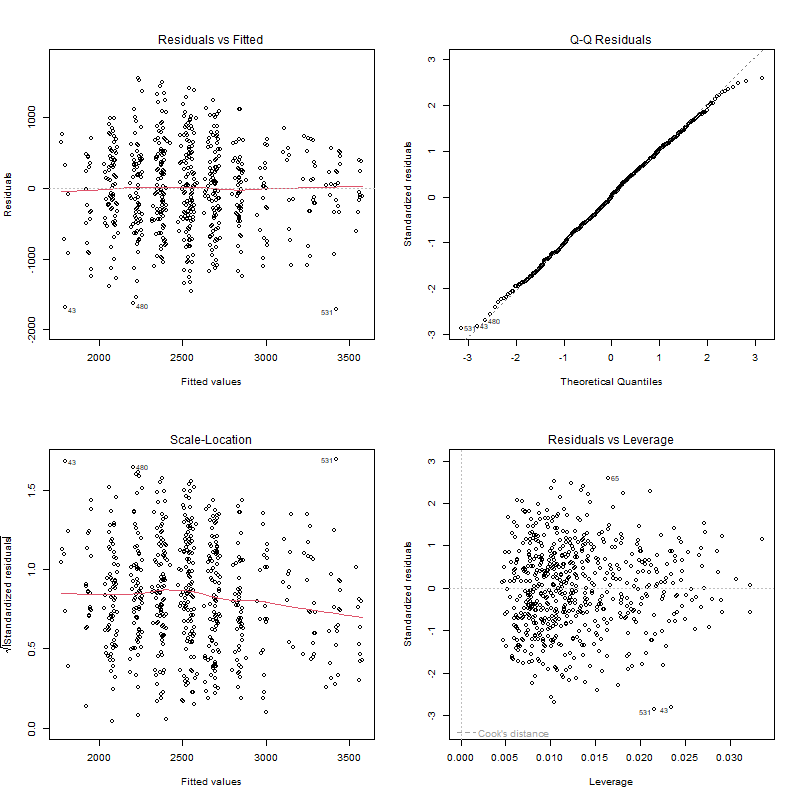
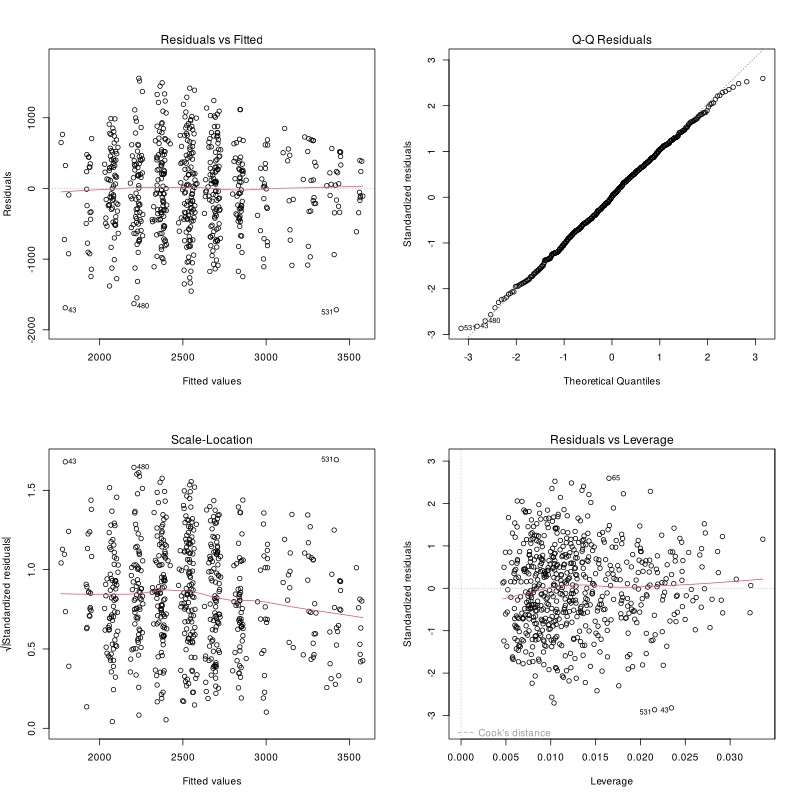
Move Vish's week 2 linear model into 02_linear_model.R (edit only)
Vish's analysis copied from his original file (kept unchanged in code/drafts/)
with setup fixes so it runs: data loader added, personal setwd() removed,
his write.csv lines switched on. His hand-annotated coefficient table kept as
lm1_coefficients_annotated.csv. Old starter kept in code/drafts/.

Claude-Session: https://claude.ai/code/session_01LizRtYMTc3QrX5agChJcEu

diff --git a/notes/who-did-what.md b/notes/who-did-what.md
@@ -13,7 +13,7 @@ Members: Yousuf, Liha, Vish, Liri, Zack
 | 12/10/2026 | Zack | Set up GitHub repo, folder structure, RStudio project and shared data loader; drafted variable classification | `README.md`, `.gitignore`, `MTH6134-project.Rproj`, `code/00_load_data.R`, `notes/` |
 | 12/10/2026 | Yousuf | Players dataset exploration: summary table, distributions, minutes ceiling, injury rates by position / training load / previous injuries / team | `code/01a_explore_players.R`, `outputs/` |
 | 12/10/2026 | Liha | Ashford matches exploration: home vs away, W/D/L record, goals vs opponent rank, count distributions, effect of the 8–0 match | `code/01b_explore_matches.R`, `outputs/` |
-| 12/10/2026 | Vish | Normal linear regression for minutes_played: coefficients, model selection, training_load numeric vs factor, residual plots | `code/02_linear_model.R`, `code/drafts/02_linear_model_draft.R`, `outputs/lm1_residuals.png`, `outputs/lm1_residuals_vs_fitted.png`, `outputs/lm1_coefficients.csv`, `outputs/lm1_drop1_results.csv` |
+| 12/10/2026 | Vish | Normal linear regression for minutes_played: coefficients, model selection, training_load numeric vs factor, residual plots | `code/drafts/02_linear_model_draft.R` (original), now in `code/02_linear_model.R`; `outputs/lm1_*` |
 | 12/10/2026 | Liri | Variable roles table and justification of model family for each candidate response | `code/03a_variable_roles.R`, `notes/decision-notes.md` |
 | 12/10/2026 | Zack | Linear model vs GLM comparison for goals (Poisson) and injury (binomial); summary written to decision notes | `code/03b_lm_vs_glm.R`, `outputs/` |
 | 12/10/2026 | Zack | Workspace upkeep: fixed README and folder structure, recreated `outputs/` and `reports/`, added collaborators, checked scripts run | `README.md`, `outputs/README.md`, `reports/README.md` |
@@ -29,3 +29,4 @@ Members: Yousuf, Liha, Vish, Liri, Zack
 | 15/10/2026 | Zack | Ashford win model (`win ~ home_away + opponent_rank`): odds ratios with 95% CIs, drop1 likelihood ratio tests, grouped observed-vs-fitted check by venue and opponent-rank band; predicted win probability plot with 95% bands; predicted injury probability plot from the final injury model (04b) | `code/04e_ashford_wins_and_predictions.R`, `outputs/win_*`, `outputs/injury_predicted_probabilities.csv`, `outputs/injury_prob_by_prev_injuries.png` |
 | 15/10/2026 | Zack | Workspace upkeep: added `run_all.R` and ran all scripts from a fresh session; updated README (weeks 2–3 ticked, tidyverse note, all scripts listed), project status, and the outputs README (every output listed by script) | `run_all.R`, `README.md`, `notes/project-status.md`, `outputs/README.md` |
 | 15/10/2026 | Zack | Workspace tidy-up: renamed misnamed files to the agreed naming (Vish's draft moved to `code/drafts/`, empty test file deleted, two lm1 outputs renamed), removed a stray non-code line from `04b` so it runs, fixed the `03a` header comment, ran every script from a fresh session and committed the outputs that were missing | `code/drafts/`, `code/03a_variable_roles.R`, `code/04b_injury_model_selection.R`, `outputs/`, `README.md`, `outputs/README.md` |
+| 15/10/2026 | Zack | Edit only, not analysis: moved Vish's week 2 linear model from his original file into `02_linear_model.R` so it runs from the project folder (added the data loader, removed a personal `setwd()` path, switched on his two `write.csv` lines). The analysis and comments are Vish's; his original file is kept unchanged in `code/drafts/` | `code/02_linear_model.R`, `code/drafts/02_linear_model_draft.R`, `code/drafts/02_linear_model_starter.R` |

diff --git a/notes/project-status.md b/notes/project-status.md
@@ -40,7 +40,7 @@ reports/     final group + individual reports (later)
 | `01_explore.R` | 2 | Zack | Kept (original combined exploration, split into 01a/01b) |
 | `01a_explore_players.R` | 2 | Yousuf | Done |
 | `01b_explore_matches.R` | 2 | Liha | Done |
-| `02_linear_model.R` | 2 | Vish | TODOs left (model selection, factor comparison) |
+| `02_linear_model.R` | 2 | Vish | Done except the bmi response (moved into place by Zack, 15/10) |
 | `03a_variable_roles.R` | 3 | Liri | Done |
 | `03b_lm_vs_glm.R` | 3 | Zack | Done |
 | `04a_injury_logistic.R` | 4 | Yousuf | In progress |
@@ -146,7 +146,7 @@ reports/     final group + individual reports (later)
   - Influence of the 8–0 match.
   - Diagnostics on the final injury model.
   - Deviance is not a goodness-of-fit test for 0/1 data.
-  - Vish: his week 2 work (model selection, numeric vs factor training_load, bmi response) is in `code/drafts/02_linear_model_draft.R`, not in `02_linear_model.R`, which is still the starter with TODOs. The draft uses `setwd()` with a personal OneDrive path and `league_players`, so it won't run for anyone else. Move the work into `02_linear_model.R` (as the week 4 email asks).
+  - Vish: his week 2 work has been moved into `02_linear_model.R` (edit by Zack, still Vish's analysis). The bmi response section is still empty. His interpretations in `outputs/lm1_coefficients_annotated.csv` use defenders as the baseline, while the scripts use GK, so the position effects need restating against GK before they go in the report.
   - Liha: add decision-notes and who-did-what entries for `04b`.
 - **Week 6:** Poisson for goals scored/conceded. Plain Poisson looks adequate after adjusting for home_away and opponent_rank.
 - **Week 11:** variation in injury rates between teams suggests a random team effect.

diff --git a/notes/decision-notes.md b/notes/decision-notes.md
@@ -228,3 +228,32 @@ Vish, since it is his work and needs edits to run).
 fresh session and the 25 outputs that existed only locally were committed, so
 `outputs/` now matches `outputs/README.md`.
 
+### 15/10/2026 — `02_linear_model.R`: Vish's work moved into place (edit by Zack)
+**This is an edit, not new analysis. The model, the tests, the comments and
+the conclusions are all Vish's.**
+
+**What:** Vish's week 2 analysis was in his own file (now
+`code/drafts/02_linear_model_draft.R`), while `02_linear_model.R` was still the
+starter template. His code was copied into `02_linear_model.R` with only these
+changes, so it runs from the project folder:
+- added `source("code/00_load_data.R")` and used `players` instead of
+  `league_players`;
+- removed `setwd()` with a personal OneDrive path;
+- un-commented his two `write.csv` lines, saving the drop1 table as
+  `lm1_drop1_results.csv`;
+- added a note that the scripts use GK as the baseline position (his comment
+  says defender), and a TODO for the empty bmi section. Both are marked [Zack].
+
+**Kept, not deleted:** his original file (unchanged) and the old starter, both
+in `code/drafts/`. His hand-edited coefficient table, which includes his written
+interpretation of every term, was renamed `lm1_coefficients_annotated.csv` so
+the script's plain table (`lm1_coefficients.csv`, the name in the week 2
+instructions) doesn't overwrite it.
+
+**Why:** the brief requires everything to run from the folder as submitted, and
+the week 4 email asked for these TODOs to be finished.
+
+**Note for the report:** his annotated table uses defenders as the baseline;
+the scripts use goalkeepers. The fitted model is the same and the numbers agree
+once the baseline is accounted for (GK +580 vs DEF matches DEF −580 vs GK).
+

diff --git a/outputs/README.md b/outputs/README.md
@@ -42,13 +42,14 @@ Every file below is recreated by running `source("run_all.R")` from a fresh R se
 **`02_linear_model.R`** (Vish)
 | File | Contents |
 |---|---|
-| `lm1_residuals.png` | Residual plots for `minutes_played ~ position + age + training_load + bmi + prev_injuries` |
+| `lm1_coefficients.csv` | Coefficients, SEs, t values, p-values and 95% CIs for `minutes_played ~ position + age + training_load + bmi + prev_injuries` (GK baseline) |
+| `lm1_drop1_results.csv` | F-test `drop1` results for the same model (renamed from `drop1_results.csv`) |
+| `lm1_residuals.png` | The four residual plots for the same model |
 
-**`drafts/02_linear_model_draft.R`** (Vish; first version of `02`, kept, not run by `run_all.R`). These were saved by hand while the draft's `write.csv` lines were commented out, so no script recreates them.
+**Saved by hand** (Vish, from his original file `drafts/02_linear_model_draft.R`; no script recreates these)
 | File | Contents |
 |---|---|
-| `lm1_coefficients.csv` | Coefficients, SEs, t values, p-values and 95% CIs for the linear model *(not script-generated)* |
-| `lm1_drop1_results.csv` | F-test `drop1` results for the linear model *(not script-generated; renamed from `drop1_results.csv`)* |
+| `lm1_coefficients_annotated.csv` | Vish's coefficient table with his written interpretation of each term, R², AIC and the training_load factor test. Defender is the baseline position here, so position effects differ from `lm1_coefficients.csv` (GK baseline). Originally committed as `lm1_coefficients.csv`. |
 | `lm1_residuals_vs_fitted.png` | Residuals vs fitted for the linear model *(not script-generated; renamed from `Plot of lm1 (mins played = pos + age + training+ bmi + prev_injuries).png`)* |
 
 ## Week 3 — GLMs

diff --git a/README.md b/README.md
@@ -34,7 +34,7 @@ All code is base R, except `01b_explore_matches.R` and `04b_injury_model_selecti
 | `01_explore.R` | 2 | Original combined exploration (kept; superseded by 01a/01b) |
 | `01a_explore_players.R` | 2 | Players dataset exploration |
 | `01b_explore_matches.R` | 2 | Ashford matches exploration (tidyverse) |
-| `02_linear_model.R` | 2 | Normal linear regression |
+| `02_linear_model.R` | 2 | Normal linear regression (Vish) |
 | `03a_variable_roles.R` | 3 | Responses vs explanatory variables |
 | `03b_lm_vs_glm.R` | 3 | Why linear models fail for counts/binary; first GLMs |
 | `04a_injury_logistic.R` | 4 | Full logistic model for injury, odds ratios |
@@ -43,7 +43,8 @@ All code is base R, except `01b_explore_matches.R` and `04b_injury_model_selecti
 | `04d_grouped_binomial.R` | 4 | Grouped binomial, goodness of fit, team effect |
 | `04e_ashford_wins_and_predictions.R` | 4 | Ashford win model, predicted-probability plots |
 | `run_all.R` (project root) | — | Runs all scripts in order and reports failures |
-| `drafts/02_linear_model_draft.R` | 2 | Vish's first version of the week 2 linear model (kept; not run by `run_all.R`) |
+| `drafts/02_linear_model_draft.R` | 2 | Vish's original file for the week 2 linear model, unchanged; its analysis now lives in `02_linear_model.R` (kept; not run) |
+| `drafts/02_linear_model_starter.R` | 2 | The original starter template for `02_linear_model.R` (kept; not run) |
 
 ## Weekly progress
 - [x] Week 2 — Exploration + normal linear regression
